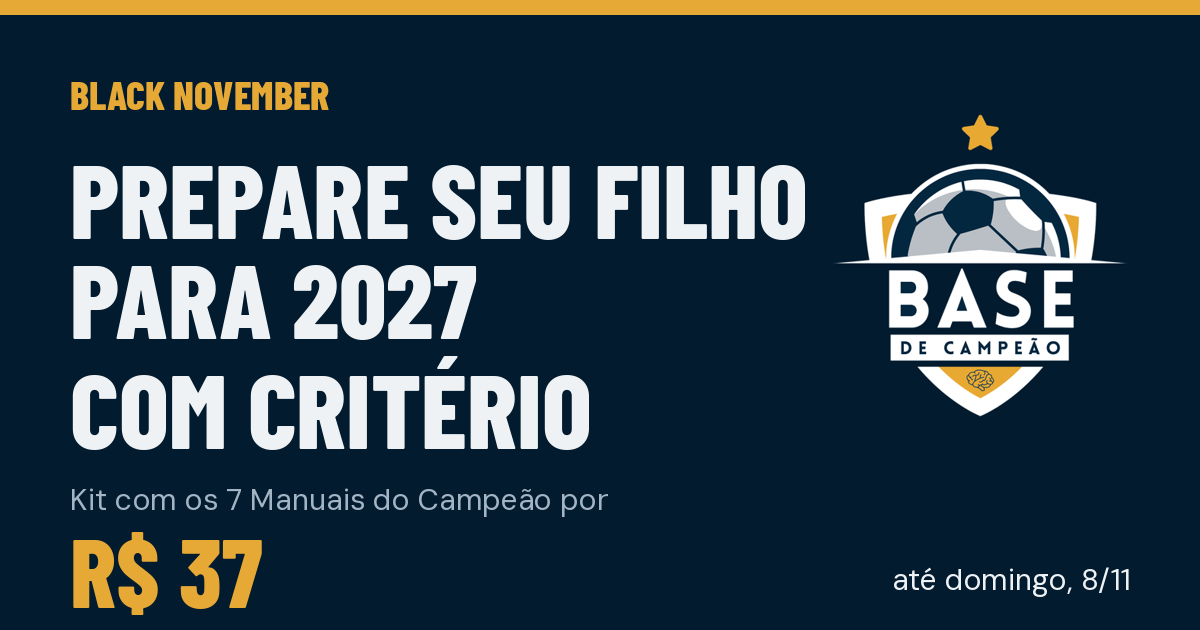
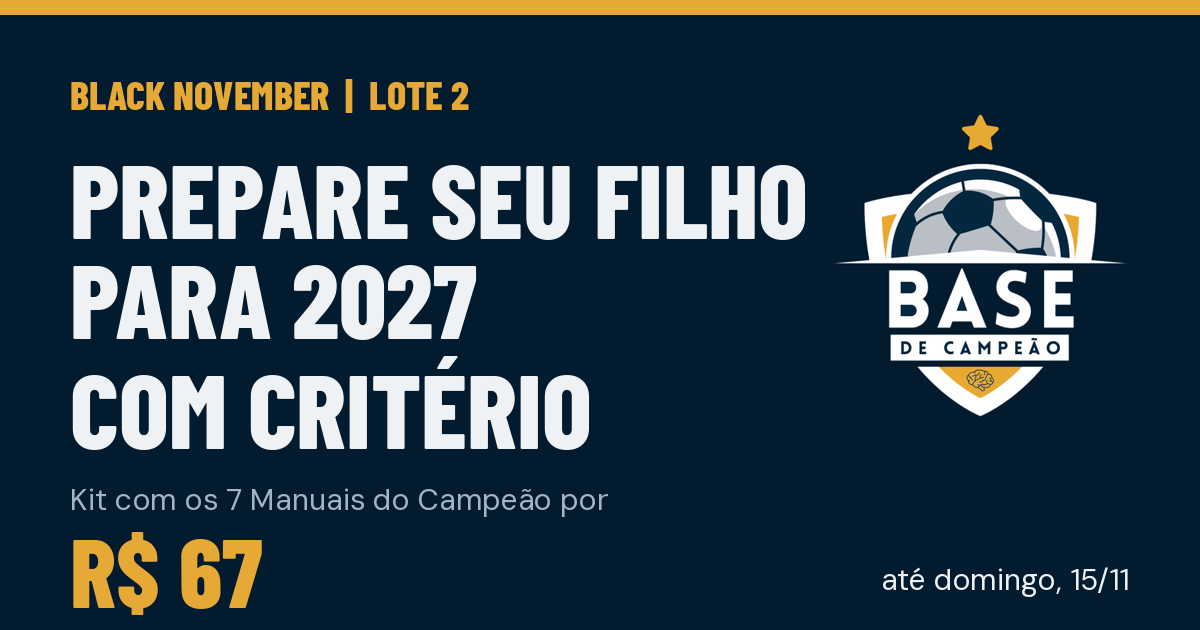
Add files via upload

Changed region(s): [[0.74, 0.9048, 0.9558, 0.9651], [0.2775, 0.1206, 0.4008, 0.181], [0.1233, 0.8444, 0.185, 0.9349]]

diff --git a/index.html b/index.html
@@ -4,14 +4,14 @@
 <meta charset="UTF-8">
 <meta name="viewport" content="width=device-width, initial-scale=1, viewport-fit=cover">
 <title>Kit dos 7 Manuais do Campeão | Black November | Base de Campeão</title>
-<meta name="description" content="Os 7 Manuais do Campeão em um kit só, por R$ 37 no Black November. Critério para a família decidir rotina, peneira, alimentação, sono e celular do atleta.">
+<meta name="description" content="Os 7 Manuais do Campeão em um kit só, por R$ 67 no Black November. Critério para a família decidir rotina, peneira, alimentação, sono e celular do atleta.">
 <link rel="canonical" href="https://manuais.basedecampeao.com.br/">
 <meta name="theme-color" content="#031B2E">
 <meta property="og:type" content="website">
 <meta property="og:locale" content="pt_BR">
 <meta property="og:site_name" content="Base de Campeão">
-<meta property="og:title" content="Kit dos 7 Manuais do Campeão por R$ 37">
-<meta property="og:description" content="Black November Base de Campeão. Prepare seu filho para 2027 com critério. Até domingo, 8/11.">
+<meta property="og:title" content="Kit dos 7 Manuais do Campeão por R$ 67">
+<meta property="og:description" content="Black November Base de Campeão. Prepare seu filho para 2027 com critério. Até domingo, 15/11.">
 <meta property="og:url" content="https://manuais.basedecampeao.com.br/">
 <meta property="og:image" content="https://manuais.basedecampeao.com.br/og-kit.png">
 <meta property="og:image:width" content="1200">
@@ -253,7 +253,7 @@
 -->
 
 <div class="faixa">
-  <span class="so-ativo">Black November Base de Campeão: kit dos 7 manuais por R$ 37 até domingo, 8/11, às 23h59</span>
+  <span class="so-ativo">Black November, lote 2: kit dos 7 manuais por R$ 67 até domingo, 15/11, às 23h59</span>
   <span class="encerrado-aviso" style="background:none;border:0;padding:0">O lote do Black November encerrou. As próximas condições saem primeiro no grupo.</span>
 </div>
 
@@ -263,7 +263,7 @@
       <img src="logo-bdc.png" width="394" height="409" alt="Base de Campeão" onerror="this.hidden=true;this.nextElementSibling.hidden=false">
       <span class="marca-texto" hidden>Base de <b>Campeão</b></span>
     </a>
-    <a class="btn btn-pequeno so-ativo js-checkout" href="https://pay.hotmart.com/P108279644A?checkoutMode=10">Quero o kit</a>
+    <a class="btn btn-pequeno so-ativo js-checkout" href="https://pay.hotmart.com/P108279644A?off=f15f6hbb">Quero o kit</a>
   </div>
 </header>
 
@@ -285,15 +285,15 @@
       <div class="oferta-box so-ativo">
         <div class="nome">Kit completo com os 7 Manuais do Campeão</div>
         <div class="preco-de">Preço normal dos 7: <s>R$ 166,40</s></div>
-        <div class="preco">R$ 37<small>,00</small></div>
-        <a class="btn btn-cheio js-checkout" href="https://pay.hotmart.com/P108279644A?checkoutMode=10">Quero o kit por R$ 37</a>
+        <div class="preco">R$ 67<small>,00</small></div>
+        <a class="btn btn-cheio js-checkout" href="https://pay.hotmart.com/P108279644A?off=f15f6hbb">Quero o kit por R$ 67</a>
         <div class="garantias">
           <span>Inclui o novo Como sair na frente em 2027</span>
           <span>Acesso imediato, em PDF, para ler no celular</span>
           <span>Garantia de 7 dias pela Hotmart</span>
         </div>
         <div class="placar" aria-live="off">
-          <div class="placar-titulo">O Black November do kit termina em</div>
+          <div class="placar-titulo">O lote 2 do Black November termina em</div>
           <div class="placar-numeros">
             <div><b data-t="d">07</b><span>dias</span></div>
             <div><b data-t="h">00</b><span>horas</span></div>
@@ -306,7 +306,7 @@
       <div class="encerrado-aviso">
         <h2>Esse lote encerrou</h2>
         <div class="linhas">
-          <p>O kit dos 7 manuais por R$ 37 foi até domingo, 8 de novembro.</p>
+          <p>O lote 2 do kit dos 7 manuais foi até domingo, 15 de novembro.</p>
           <p>O Black November continua durante todo o mês, e cada nova condição sai primeiro no grupo.</p>
         </div>
         <a class="btn btn-cheio" href="https://chat.whatsapp.com/LlF0hVeScjB5rJVQCjJw49">Entrar no grupo</a>
@@ -341,7 +341,7 @@
         <p>O que o atleta e a família precisam fazer agora, enquanto os clubes reformulam elencos, para começar 2027 à frente.</p>
         <p>É o manual que abre o kit.</p>
       </div>
-      <a class="btn-avulso so-ativo js-checkout" href="https://pay.hotmart.com/X108279822M?off=2v4inetx">Comprar só este por R$ 9,90</a>
+      <a class="btn-avulso so-ativo js-checkout" href="https://pay.hotmart.com/X108279822M">Comprar só este por R$ 19,90</a>
       </div>
     </div>
     <div class="manuais">
@@ -350,7 +350,7 @@
         <h3>Em que fase o seu filho realmente está</h3>
         <div>
           <p>Maturação e idade biológica dos 3 aos 18 anos, e o que faz sentido cobrar em cada momento.</p>
-          <a class="btn-avulso so-ativo js-checkout" href="https://pay.hotmart.com/B107484794B?off=tp28tl6k">Comprar só este por R$ 9,90</a>
+          <a class="btn-avulso so-ativo js-checkout" href="https://pay.hotmart.com/B107484794B">Comprar só este por R$ 19,90</a>
         </div>
       </div>
       <div class="manual">
@@ -358,7 +358,7 @@
         <h3>Como brilhar em uma peneira</h3>
         <div>
           <p>Como atleta e família se preparam antes, durante e depois de uma avaliação.<br>Com bônus: cronograma de preparação para imprimir.</p>
-          <a class="btn-avulso so-ativo js-checkout" href="https://pay.hotmart.com/V105642023P?off=5hkuzxwe">Comprar só este por R$ 9,90</a>
+          <a class="btn-avulso so-ativo js-checkout" href="https://pay.hotmart.com/V105642023P">Comprar só este por R$ 47</a>
         </div>
       </div>
       <div class="manual">
@@ -366,7 +366,7 @@
         <h3>Alimentação de atleta</h3>
         <div>
           <p>Comida de verdade para sustentar o treino e a recuperação, sem dieta impossível.</p>
-          <a class="btn-avulso so-ativo js-checkout" href="https://pay.hotmart.com/J103907000J?off=i6ulfor5">Comprar só este por R$ 9,90</a>
+          <a class="btn-avulso so-ativo js-checkout" href="https://pay.hotmart.com/J103907000J">Comprar só este por R$ 19,90</a>
         </div>
       </div>
       <div class="manual">
@@ -374,7 +374,7 @@
         <h3>Sono de atleta</h3>
         <div>
           <p>O treino que acontece à noite e por que ele pesa no rendimento.</p>
-          <a class="btn-avulso so-ativo js-checkout" href="https://pay.hotmart.com/Q102334447X?off=457iearq">Comprar só este por R$ 9,90</a>
+          <a class="btn-avulso so-ativo js-checkout" href="https://pay.hotmart.com/Q102334447X">Comprar só este por R$ 19,90</a>
         </div>
       </div>
       <div class="manual">
@@ -382,7 +382,7 @@
         <h3>Treinar com disciplina</h3>
         <div>
           <p>Como construir constância nos dias comuns, que são a maioria.</p>
-          <a class="btn-avulso so-ativo js-checkout" href="https://pay.hotmart.com/J103892586M?off=r8aoqym5">Comprar só este por R$ 9,90</a>
+          <a class="btn-avulso so-ativo js-checkout" href="https://pay.hotmart.com/J103892586M">Comprar só este por R$ 19,90</a>
         </div>
       </div>
       <div class="manual">
@@ -390,13 +390,13 @@
         <h3>Usar o celular com disciplina</h3>
         <div>
           <p>Acordos em família para o celular parar de sabotar foco, sono e reputação.</p>
-          <a class="btn-avulso so-ativo js-checkout" href="https://pay.hotmart.com/D103869869N?off=do5tu5zw">Comprar só este por R$ 9,90</a>
+          <a class="btn-avulso so-ativo js-checkout" href="https://pay.hotmart.com/D103869869N">Comprar só este por R$ 19,90</a>
         </div>
       </div>
     </div>
     <div class="total-kit so-ativo">
-      <p>No Black November, cada manual sai por R$ 9,90 e os 7 avulsos somam <strong>R$ 69,30</strong>.<br>No kit, os 7 saem por <strong>R$ 37</strong>.</p>
-      <a class="btn js-checkout" href="https://pay.hotmart.com/P108279644A?checkoutMode=10">Quero os 7 manuais</a>
+      <p>Avulsos, os 7 somam <strong>R$ 166,40</strong>.<br>No kit do Black November, saem por <strong>R$ 67</strong>.</p>
+      <a class="btn js-checkout" href="https://pay.hotmart.com/P108279644A?off=f15f6hbb">Quero os 7 manuais</a>
     </div>
   </div>
 </section>
@@ -426,9 +426,9 @@
     <h2 class="titulo-secao">Kit completo dos 7 Manuais do Campeão</h2>
     <div class="so-ativo">
       <p class="conta">Preço normal dos 7 manuais: <s>R$ 166,40</s></p>
-      <div class="preco">R$ 37<small>,00</small></div>
+      <div class="preco">R$ 67<small>,00</small></div>
       <div class="placar">
-        <div class="placar-titulo">Termina domingo, 8 de novembro, às 23h59</div>
+        <div class="placar-titulo">Termina domingo, 15 de novembro, às 23h59</div>
         <div class="placar-numeros">
           <div><b data-t="d">07</b><span>dias</span></div>
           <div><b data-t="h">00</b><span>horas</span></div>
@@ -436,7 +436,7 @@
           <div><b data-t="s">00</b><span>seg</span></div>
         </div>
       </div>
-      <a class="btn js-checkout" href="https://pay.hotmart.com/P108279644A?checkoutMode=10">Garantir o kit por R$ 37</a>
+      <a class="btn js-checkout" href="https://pay.hotmart.com/P108279644A?off=f15f6hbb">Garantir o kit por R$ 67</a>
       <p class="aviso">Horário de Brasília.<br>Depois do prazo, esse preço sai do ar.</p>
     </div>
     <div class="encerrado-aviso" style="max-width:560px;margin:28px auto 0;text-align:left">
@@ -485,11 +485,11 @@
       </details>
       <details>
         <summary>Posso comprar só um manual?</summary>
-        <div class="linhas"><p>Pode.</p><p>No Black November, cada manual sai por R$ 9,90.</p><p>Se você quiser quatro ou mais, o kit completo por R$ 37 já sai mais em conta.</p></div>
+        <div class="linhas"><p>Pode.</p><p>Cada manual avulso sai pelo preço normal: R$ 19,90, e o Como brilhar em uma peneira, R$ 47.</p><p>A partir de quatro manuais, o kit completo por R$ 67 já sai mais em conta.</p></div>
       </details>
       <details>
-        <summary>Até quando valem esses preços?</summary>
-        <div class="linhas"><p>Até domingo, 8 de novembro, às 23h59, horário de Brasília.</p></div>
+        <summary>Até quando vale o preço de R$ 67?</summary>
+        <div class="linhas"><p>Até domingo, 15 de novembro, às 23h59, horário de Brasília.</p></div>
       </details>
       <details>
         <summary>Tenho uma dúvida antes de comprar. Com quem falo?</summary>
@@ -523,13 +523,13 @@
 </footer>
 
 <div class="cta-fixo so-ativo" id="cta-fixo">
-  <div class="t"><b>Kit dos 7 manuais</b>R$ 37 até domingo, 8/11</div>
-  <a class="btn btn-pequeno js-checkout" href="https://pay.hotmart.com/P108279644A?checkoutMode=10">Quero o kit</a>
+  <div class="t"><b>Kit dos 7 manuais</b>R$ 67 até domingo, 15/11</div>
+  <a class="btn btn-pequeno js-checkout" href="https://pay.hotmart.com/P108279644A?off=f15f6hbb">Quero o kit</a>
 </div>
 
 <script>
-  // Prazo do lote: domingo, 8/11/2026, 23h59 de Brasília (UTC-3)
-  var PRAZO = new Date('2026-11-08T23:59:59-03:00').getTime();
+  // Prazo do lote 2: domingo, 15/11/2026, 23h59 de Brasília (UTC-3)
+  var PRAZO = new Date('2026-11-15T23:59:59-03:00').getTime();
 
   // Repassa UTMs e src da URL para o checkout da Hotmart (rastreio por disparo)
   (function () {

diff --git a/obrigado.html b/obrigado.html
@@ -97,7 +97,7 @@
     <div class="preco">R$ 113,50<small>/mês</small></div>
     <p class="depois">50% de desconto nos 3 primeiros meses, só para quem levou o kit no Black November.<br>A partir do 4º mês, segue no plano mensal de R$ 227.</p>
     <a class="btn" href="COLE_AQUI_LINK_CHECKOUT_COMUNIDADE_50">Quero entrar na Comunidade com 50%</a>
-    <p class="prazo">Condição válida até domingo, 8 de novembro, às 23h59.</p>
+    <p class="prazo">Condição válida até domingo, 15 de novembro, às 23h59.</p>
     <a class="recusar" href="https://chat.whatsapp.com/LlF0hVeScjB5rJVQCjJw49">Agora não, quero voltar para o grupo</a>
   </section>
 </main>
